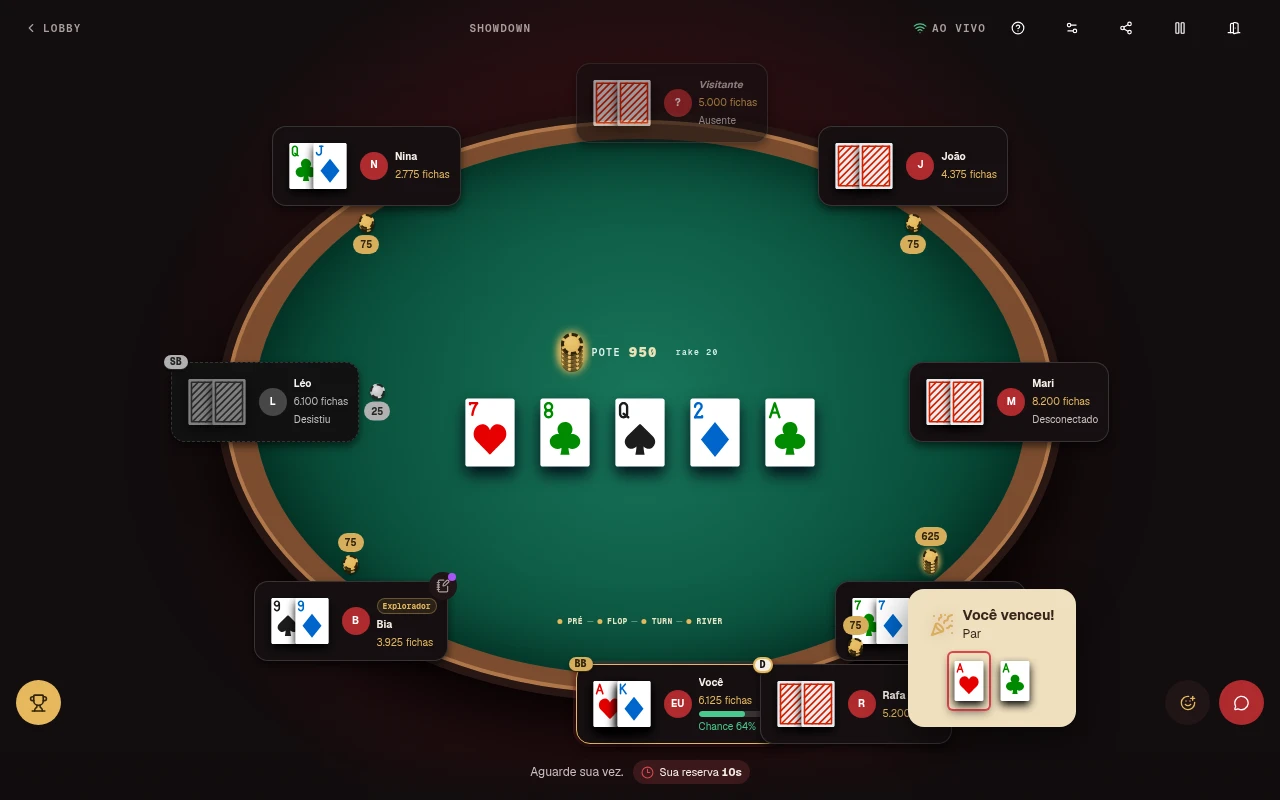
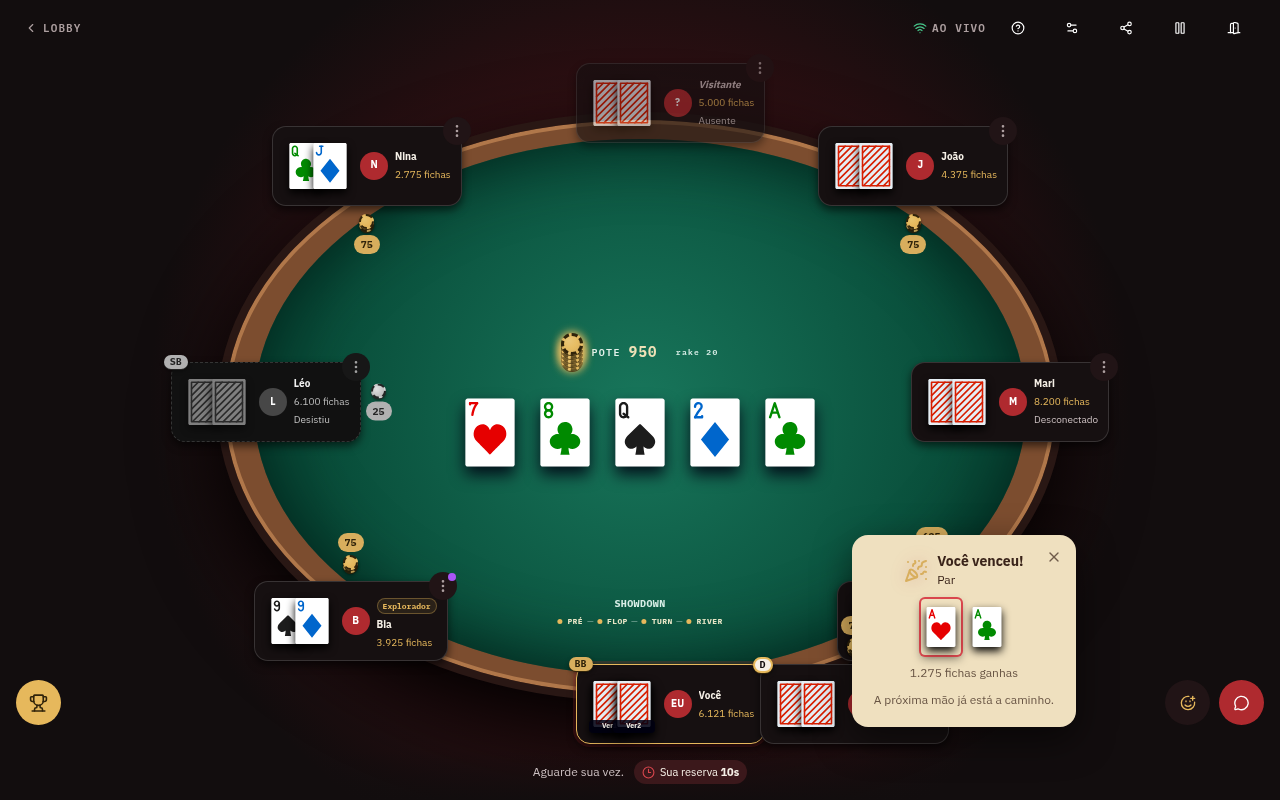
fix: fixed og images

diff --git a/ui/vitest.config.ts b/ui/vitest.config.ts
@@ -12,7 +12,7 @@ export default defineConfig({
     globals: true,
     testTimeout: 10_000,
     setupFiles: ['./src/test/setup.ts'],
-    include: ['src/**/*.test.{ts,tsx}'],
+    include: ['src/**/*.test.{ts,tsx}', 'scripts/**/*.test.mjs'],
     coverage: {
       provider: 'v8',
       reporter: ['text', 'html', 'lcov'],

diff --git a/ui/README.md b/ui/README.md
@@ -68,6 +68,18 @@ Every page is `'use client'`; only `layout.tsx` and `share/layout.tsx` are serve
 | `/poker-rules` | `poker-rules/page.tsx` | Rules + hand rankings reference |
 | `/callback` | `callback/page.tsx` | OAuth code→token exchange, then `returnTo` or `/lobby` |
 
+## Visual capture assets
+
+With `npm run dev:mock` running on port 3003, `npm run og:capture` refreshes both sets of checked-in
+WebP screenshots: Open Graph previews in `public/og/` and the product screenshots embedded by the
+guide in `public/guide/`. The guide set covers the lobby, buy-in and private-room states, three table
+streets, hands, achievements, store, profile menu and leaderboard. Stateful targets wait for their
+rendered UI selector before Chrome writes the image; for example, the table waits for `.game`.
+
+Use `npm run og:capture -- --og` or `npm run og:capture -- --guide` when only one set needs to be
+regenerated. `OG_CAPTURE_ORIGIN` can point the capture process at a different running origin. The
+legacy `npm run screenshots:capture` command remains an alias for a full capture.
+
 **Profile editing does not live at `/profile`.** That route is the public showcase; the editor is
 the `ProfileMenu` popover in the lobby header (display name, wallet mode, deck variant), plus
 `ProfileShowcaseDialog` (showcase visibility, ≤3 featured achievements). All of them call
